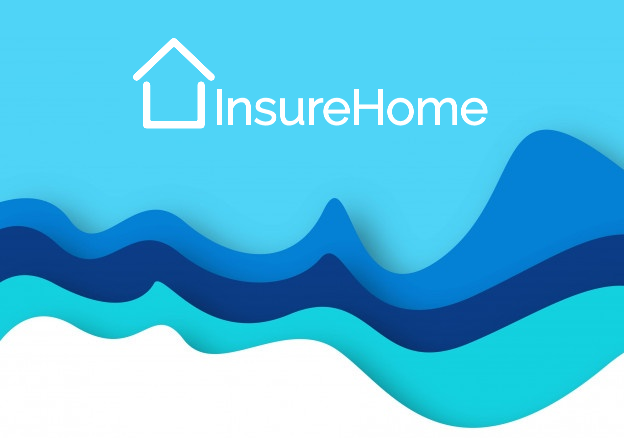
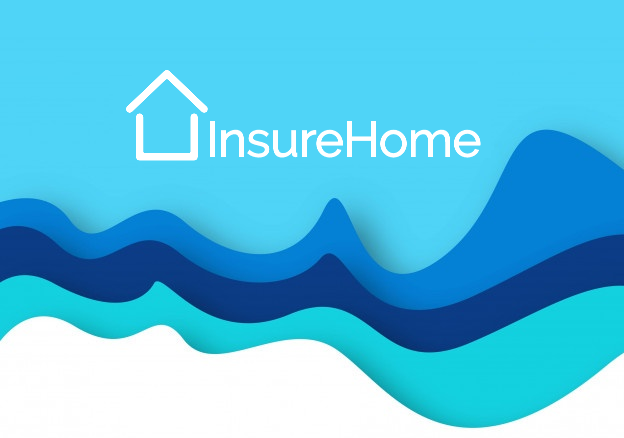
Homescreen

Changed region(s): [[0.1827, 0.089, 0.7917, 0.3858]]

diff --git a/client/homeInsureApp/screens/HomeScreen.js b/client/homeInsureApp/screens/HomeScreen.js
@@ -24,7 +24,7 @@ export default class HomeScreen extends Component {
             width: "100%",
             height: (Dimensions.get("window").height * 4) / 10
           }}
-          source={require("../assets/images/WavyBlue.jpg")}
+          source={require("../assets/images/HeaderImage.png")}
         />
         <View style={styles.buttons}>
           <View>
@@ -61,6 +61,7 @@ const styles = StyleSheet.create({
     flexDirection: "row",
     backgroundColor: "#fff",
     margin: "2%",
+    marginTop: "10%",
     // marginTop: (Dimensions.get("window").height * 4) / 10,
     height: (Dimensions.get("window").height * 95) / 100,
     width: Dimensions.get("window").width - 2
@@ -72,13 +73,18 @@ const styles = StyleSheet.create({
     color: "#1A90F5"
   },
   customBtnBG1: {
-    backgroundColor: "#F5F5F5",
+    backgroundColor: "white",
     borderRadius: 5,
+    borderWidth: 0.5,
+    borderColor: "#CBC9C9",
     width: (Dimensions.get("window").width * 9) / 20,
     marginRight: "2%",
     marginLeft: "2%",
     marginBottom: "2%",
     marginTop: "5%",
-    height: (Dimensions.get("window").height - 1) / 4
+    height: (Dimensions.get("window").width * 9) / 20,
+    shadowOffset: { width: 1, height: 4 },
+    shadowOpacity: 0.8,
+    shadowColor: "#8C8C8C"
   }
 });
